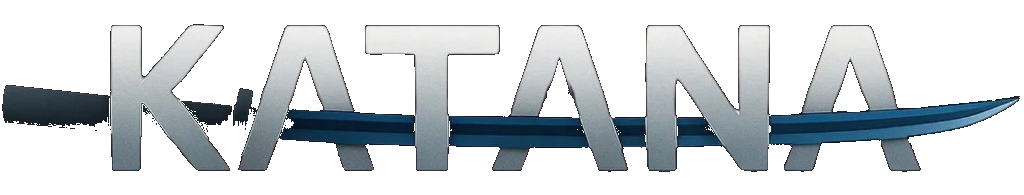
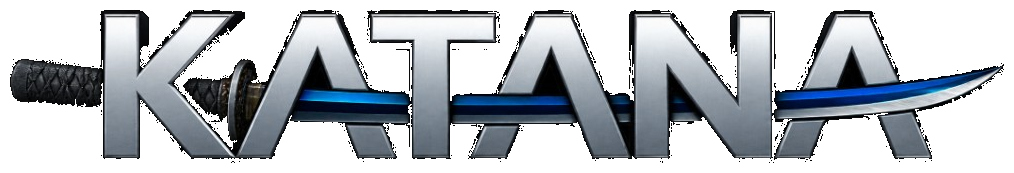
Replace the Katana wordmark with the higher-resolution mark.
Black is keyed out so the metal letters and blue blade sit on the page, including the dark sword handle.

diff --git a/index.html b/index.html
@@ -21,7 +21,7 @@
       <div class="header-inner">
         <a class="brand-lockup" href="/" aria-label="Katana home">
           <span class="brand-logo">
-            <img src="/katana-wordmark.png" width="1024" height="195" alt="Katana">
+            <img src="/katana-wordmark.png" width="1014" height="173" alt="Katana">
           </span>
         </a>
         <button class="nav-toggle" type="button" aria-expanded="false" aria-controls="site-nav">
@@ -63,7 +63,7 @@
         </div>
         <div class="hero-visual">
           <div class="hero-mark">
-            <img src="/katana-wordmark.png" width="1024" height="195" alt="">
+            <img src="/katana-wordmark.png" width="1014" height="173" alt="">
           </div>
           <figure class="hero-device">
             <video src="/hub-demo.mp4" poster="/katana-hub-screenshot.png" autoplay muted loop playsinline preload="metadata" aria-label="Katana Business preview"></video>
@@ -174,7 +174,7 @@
         <div class="footer-brand">
           <a class="brand-lockup" href="/" aria-label="Katana home">
             <span class="brand-logo">
-              <img src="/katana-wordmark.png" width="1024" height="195" alt="Katana">
+              <img src="/katana-wordmark.png" width="1014" height="173" alt="Katana">
             </span>
           </a>
           <p class="footer-tagline">Operate with precision.</p>

diff --git a/products/business.html b/products/business.html
@@ -21,7 +21,7 @@
       <div class="header-inner">
         <a class="brand-lockup" href="/" aria-label="Katana home">
           <span class="brand-logo">
-            <img src="/katana-wordmark.png" width="1024" height="195" alt="Katana">
+            <img src="/katana-wordmark.png" width="1014" height="173" alt="Katana">
           </span>
         </a>
         <button class="nav-toggle" type="button" aria-expanded="false" aria-controls="site-nav">
@@ -293,7 +293,7 @@
         <div class="footer-brand">
         <a class="brand-lockup" href="/" aria-label="Katana home">
           <span class="brand-logo">
-            <img src="/katana-wordmark.png" width="1024" height="195" alt="Katana">
+            <img src="/katana-wordmark.png" width="1014" height="173" alt="Katana">
           </span>
         </a>
           <p class="footer-tagline">Operate with precision.</p>

diff --git a/products/personal.html b/products/personal.html
@@ -21,7 +21,7 @@
       <div class="header-inner">
         <a class="brand-lockup" href="/" aria-label="Katana home">
           <span class="brand-logo">
-            <img src="/katana-wordmark.png" width="1024" height="195" alt="Katana">
+            <img src="/katana-wordmark.png" width="1014" height="173" alt="Katana">
           </span>
         </a>
         <button class="nav-toggle" type="button" aria-expanded="false" aria-controls="site-nav">
@@ -258,7 +258,7 @@
         <div class="footer-brand">
         <a class="brand-lockup" href="/" aria-label="Katana home">
           <span class="brand-logo">
-            <img src="/katana-wordmark.png" width="1024" height="195" alt="Katana">
+            <img src="/katana-wordmark.png" width="1014" height="173" alt="Katana">
           </span>
         </a>
           <p class="footer-tagline">Operate with precision.</p>

diff --git a/products/veyah.html b/products/veyah.html
@@ -21,7 +21,7 @@
       <div class="header-inner">
         <a class="brand-lockup" href="/" aria-label="Katana home">
           <span class="brand-logo">
-            <img src="/katana-wordmark.png" width="1024" height="195" alt="Katana">
+            <img src="/katana-wordmark.png" width="1014" height="173" alt="Katana">
           </span>
         </a>
         <button class="nav-toggle" type="button" aria-expanded="false" aria-controls="site-nav">
@@ -176,7 +176,7 @@
         <div class="footer-brand">
         <a class="brand-lockup" href="/" aria-label="Katana home">
           <span class="brand-logo">
-            <img src="/katana-wordmark.png" width="1024" height="195" alt="Katana">
+            <img src="/katana-wordmark.png" width="1014" height="173" alt="Katana">
           </span>
         </a>
           <p class="footer-tagline">Operate with precision.</p>

diff --git a/company.html b/company.html
@@ -18,7 +18,7 @@
       <div class="header-inner">
         <a class="brand-lockup" href="/" aria-label="Katana home">
           <span class="brand-logo">
-            <img src="/katana-wordmark.png" width="1024" height="195" alt="Katana">
+            <img src="/katana-wordmark.png" width="1014" height="173" alt="Katana">
           </span>
         </a>
         <button class="nav-toggle" type="button" aria-expanded="false" aria-controls="site-nav">
@@ -96,7 +96,7 @@
         <div class="footer-brand">
         <a class="brand-lockup" href="/" aria-label="Katana home">
           <span class="brand-logo">
-            <img src="/katana-wordmark.png" width="1024" height="195" alt="Katana">
+            <img src="/katana-wordmark.png" width="1014" height="173" alt="Katana">
           </span>
         </a>
           <p class="footer-tagline">Operate with precision.</p>

diff --git a/contact.html b/contact.html
@@ -18,7 +18,7 @@
       <div class="header-inner">
         <a class="brand-lockup" href="/" aria-label="Katana home">
           <span class="brand-logo">
-            <img src="/katana-wordmark.png" width="1024" height="195" alt="Katana">
+            <img src="/katana-wordmark.png" width="1014" height="173" alt="Katana">
           </span>
         </a>
         <button class="nav-toggle" type="button" aria-expanded="false" aria-controls="site-nav">
@@ -91,7 +91,7 @@
         <div class="footer-brand">
         <a class="brand-lockup" href="/" aria-label="Katana home">
           <span class="brand-logo">
-            <img src="/katana-wordmark.png" width="1024" height="195" alt="Katana">
+            <img src="/katana-wordmark.png" width="1014" height="173" alt="Katana">
           </span>
         </a>
           <p class="footer-tagline">Operate with precision.</p>

diff --git a/products/index.html b/products/index.html
@@ -18,7 +18,7 @@
       <div class="header-inner">
         <a class="brand-lockup" href="/" aria-label="Katana home">
           <span class="brand-logo">
-            <img src="/katana-wordmark.png" width="1024" height="195" alt="Katana">
+            <img src="/katana-wordmark.png" width="1014" height="173" alt="Katana">
           </span>
         </a>
         <button class="nav-toggle" type="button" aria-expanded="false" aria-controls="site-nav">
@@ -92,7 +92,7 @@
         <div class="footer-brand">
         <a class="brand-lockup" href="/" aria-label="Katana home">
           <span class="brand-logo">
-            <img src="/katana-wordmark.png" width="1024" height="195" alt="Katana">
+            <img src="/katana-wordmark.png" width="1014" height="173" alt="Katana">
           </span>
         </a>
           <p class="footer-tagline">Operate with precision.</p>

diff --git a/404.html b/404.html
@@ -17,7 +17,7 @@
       <div class="header-inner">
         <a class="brand-lockup" href="/" aria-label="Katana home">
           <span class="brand-logo">
-            <img src="/katana-wordmark.png" width="1024" height="195" alt="Katana">
+            <img src="/katana-wordmark.png" width="1014" height="173" alt="Katana">
           </span>
         </a>
         <a class="btn btn-primary header-cta" href="/">Back home</a>
